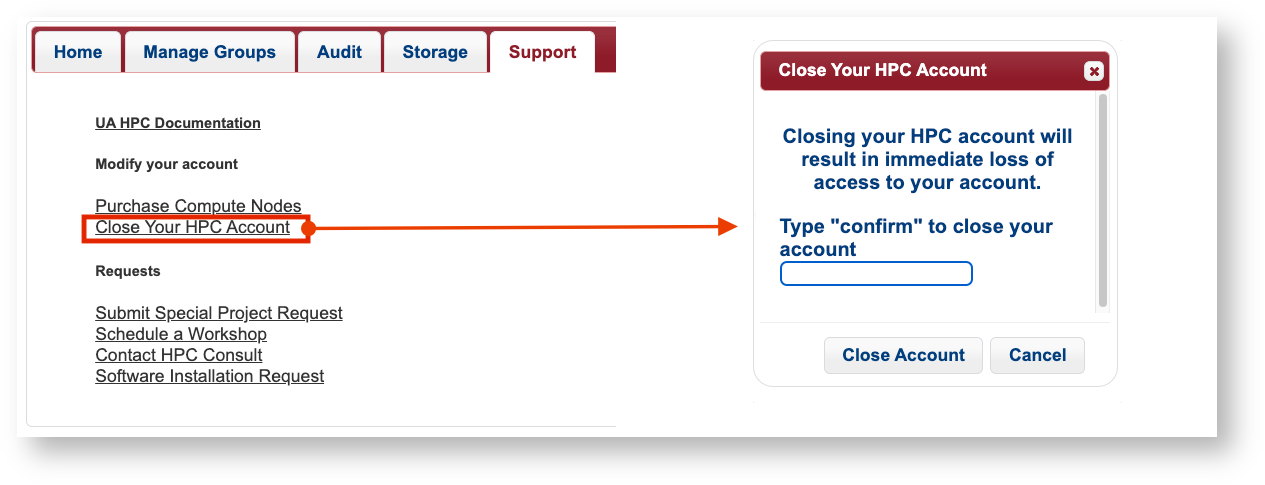
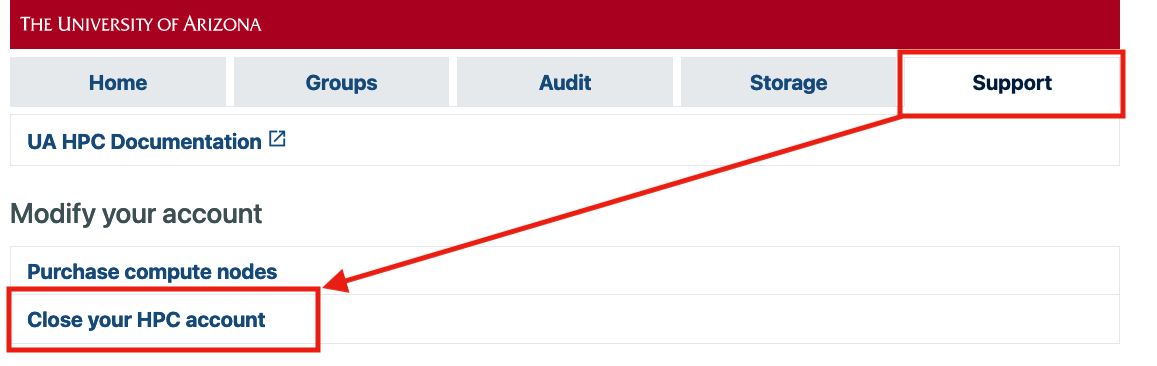
Updated screenshots to match new portal UI

diff --git a/docs/registration_and_access/group_management/index.md b/docs/registration_and_access/group_management/index.md
@@ -32,19 +32,17 @@ Research groups can also be used to manage access permissions to files and folde
 
 ### Adding Members
 
-To add members to your research group, go to [https://portal.hpc.arizona.edu/](https://portal.hpc.arizona.edu/) and click the **Manage Groups** tab at the top of the screen. Click your group's dropdown tab and click **Add Member**
+To add members to your research group, go to [https://portal.hpc.arizona.edu/](https://portal.hpc.arizona.edu/) and click the **Groups** tab at the top of the screen. 
 
 <img class="ood-screenshots" src="images/group_add.png" title="Manage group members">
 
-Enter the user's UArizona NetID in the box that appears, and select **Add**
+Click your group's dropdown tab and navigate to where it says **Add a new group member**. In the field below, enter the new group member's NetID and click ":material-account-plus: ADD MEMBER". 
 
-<img class="ood-screenshots" src="images/add_member.png" style="width: 300px;" title="Add NetID">
+<img class="ood-screenshots" src="images/add_member.png" title="Add NetID">
 
 To add members in bulk, you may also select **Upload Member List** and upload a CSV file of UArizona NetIDs.
 
-The process of adding new members may take a few seconds to complete. Once the changes have taken place, you will see the user's NetID in your group:
-
-<img class="ood-screenshots" src="images/added_user.png" title="Research group with new member">
+The process of adding new members may take a few seconds to complete. Once the changes have taken place, you will see the user's NetID in your group.
 
 
 
@@ -52,7 +50,7 @@ The process of adding new members may take a few seconds to complete. Once the c
 
 A new group can be created at any time through the user portal. New groups will share their time and storage allocations with your primary group. Alternate research groups can be a good solution for managing file permissions. For example, if a particular directory and its contents needs restricted access, you could do this by creating a new research group, adding the group members who need access to those files, and then changing the group ownership of the files/directories.
 
-To create a new group, log into the user portal, select the **Manage Groups** and select the **Add New Group** dropdown menu. 
+To create a new group, log into the user portal, navigate to the **Groups** tab and select the **Add New Group** dropdown menu. In the **Group Name** field, enter the name of the group you'd like to create. Under **Group Type**, select **researchGroup**, then select the :material-account-multiple-plus: to confirm.
 
 <img src="images/create-research-group.png" class="ood-screenshots" title="Add new research group">
 
@@ -77,23 +75,20 @@ If you are a faculty member and are teaching a course that makes use of HPC reso
 
 ### Creating a Class Group
 
-Log into your [user portal](https://portal.hpc.arizona.edu/), navigate to the **Manage Groups** tab, and select the **Add New Group** dropdown option at the top of the page.There will be an option to specify your **Group Type** on the right. Choose **Class** from the dropdown menu
+Log into your [user portal](https://portal.hpc.arizona.edu/), navigate to the **Groups** tab, and select the **Add New Group** dropdown option at the top of the page.There will be an option to specify your **Group Type**. Choose **classGroup** from the dropdown menu. Then under **Group Name** enter the name of your group. Finally, click :material-account-multiple-plus: to complete the process. 
 
-<img src="images/select-class-group.png" class="ood-screenshots" title="Select class group type">
+<img src="images/create-class-group.png" class="ood-screenshots" title="Class group interface">
 
-Under **Group Name**, enter something descriptive and then complete the process by clicking **Add Group**.
 
-<img src="images/name_group.png" class="ood-screenshots" title="Add class group">
+Once this process is complete, you can find your group's dropdown under the **Groups** tab. There you can add students either individually or in batch by uploading a CSV file with your student's NetIDs. You may also remove students from the group by clicking the "REMOVE :material-account-minus:" button. You can also delete the group itself by selecting ":material-account-multiple-minus: REMOVE GROUP".
 
-Once this process is complete, you can find your group's dropdown tab under **Manage Groups**. There you can add students either individually or in batch by uploading a CSV file with your student's NetIDs. You may also remove students from the group by clicking their NetIDs and then selecting Remove Member(s), or delete the group itself by selecting Delete Group.
-
-<img src="images/add_class_members.png" class="ood-screenshots" title="Class group interface">
+<img src="images/class-members.png" class="ood-screenshots" title="Class group interface">
 
 ### File Permissions and Storage
 Students in your class group will only be able to access files and directories owned by the class group. This means they will not be able to access files and directories owned by your standard research group. 
 
 ### Running Jobs and Allocations
-Due to Arizona sales tax restrictions, class groups may only use the windfall queue on Puma. However, standard hours may be used by students on Ocelote. To submit standard jobs on Ocelote, students will use the class group's name for the ```--account``` Slurm directive. For example:
+Due to Arizona sales tax restrictions, {==class groups may only use the windfall queue on Puma==}. However, {==standard hours may be used by students on Ocelote==}. To submit standard jobs on Ocelote, students will use the class group's name for the ```--account``` Slurm directive. For example:
 
 ```bash
 #SBATCH --account=hpc101
@@ -116,12 +111,21 @@ PI: parent_000 Total time: 100000:00:00
 ## Delegating Group Management Rights
 
 ### Adding a Delegate
-PI's can delegate management rights to trusted group members. Delegates may create research and class groups, sponsor users, remove users, and request and manage storage offerings on behalf of their faculty sponsor. To add a group member as a delegate, the PI can click the **Manage Delegates** link on the home page of the [user portal](https://portal.hpc.arizona.edu/portal/). In the Manage Delegates window that appears, select **Add Delegate**, enter your group member's NetID, and click **Add**.
+PI's can delegate management rights to trusted group members. Delegates may create research and class groups, sponsor users, remove users, and request and manage storage offerings on behalf of their faculty sponsor. To add a group member as a delegate, the PI can click the **Manage Delegates** link on the home page of the [user portal](https://portal.hpc.arizona.edu/portal/).
+
+<img src="images/manage-delegates.png" class="ood-screenshots" title="Adding a group delegate">
+
+ In the Manage Delegates window that appears, select **Add a delegate**, enter your group member's NetID, and click :material-plus-circle-outline:.
 
 <img src="images/add-delegate.png" class="ood-screenshots" title="Adding a group delegate">
 
 ### Instructions for Delegates
 
-Once a group member has been added as a delegate, they can log into the user portal, select **Switch User**, enter their PI's NetID in the pop-up field, and click **Switch User**. This will allow them to perform functions on their PI's behalf. They may switch back to their own account at any time by selecting Switch User and entering their own NetID.
+Once a group member has been added as a delegate, they can log into the user portal, then select **Switch User** from the Home tab.
 
-<img src="images/switch-user.png" class="ood-screenshots" title="Delegate instructions">
+<img src="images/switch_user0.png" class="ood-screenshots" title="Adding a group delegate">
+
+
+In the next window, they can enter their PI's NetID under **Switch user form** --> **UA NetID**, and click :material-account-box-multiple:. They should see **Current effective user** change from their own NetID to their PI's NetID. This will allow them to perform functions on their PI's behalf. They may switch back to their own account at any time by following the same process, entering their own NetID in the form instead of their PI's.
+
+<img src="images/switch-user1.png" class="ood-screenshots" title="Delegate instructions">

diff --git a/docs/registration_and_access/account_creation/index.md b/docs/registration_and_access/account_creation/index.md
@@ -23,10 +23,11 @@ The process of registering for an HPC account varies depending on your affiliati
     <img src="images/PI_Account_Creation_4.png" title="PI self-sponsor link" style="width:800px;">
     <br>
      
-     This will automatically redirect you back to the user portal, create a research group for you, and add you as a member. You will briefly see a pop-up notification verifying you've been added to your group. You can check this by going to the Manage Groups tab and clicking your group's dropdown menu to view its members. 
+     This will automatically redirect you back to the user portal, create a research group for you, and add you as a member. You can check your group and membership in the portal by going to the <b>Groups</b> tab and clicking your group's dropdown menu to view its members. 
      <br>
-     <img src="images/PI_Account_Creation_4.5.png" title="PI confirmation popup" style="width:350px;">
+     <img src="images/PI_Account_Creation_4.5.png" title="PI confirmation popup" style="width:800px;">
     </p>
+    <p>For more information on how you can manage your HPC group, see our <a href="../group_management/">Group Management</a> documentation.</p>
 </div>
      
 <button class="collapsible">I'm a student, postdoc, staff member, or Designated Campus Colleague</button>

diff --git a/docs/registration_and_access/account_deletion/index.md b/docs/registration_and_access/account_deletion/index.md
@@ -2,9 +2,15 @@
 
 ## Manual Deletion
 
-If you wish to delete your HPC account, you may do so through the [User Portal](https://portal.hpc.arizona.edu/portal/). Navigate to the **Support** tab and click the **Close Your HPC Account** link. You will be prompted to manually confirm by entering *confirm* at the prompt. Click **Close Account** to complete the process.
+If you wish to delete your HPC account, you may do so through the [User Portal](https://portal.hpc.arizona.edu/portal/). Navigate to the **Support** tab and click the **Close Your HPC Account** link. 
 
-<img src=images/CloseAccount_0.png title="HPC account deletion" style="width=800px;">
+<img src="images/CloseAccount_0.png" title="HPC account deletion" style="width:800px;">
+
+In a new window, you will be prompted to manually confirm by entering *confirm* at the prompt. Click **Close Account** to complete the process.
+
+<img src="images/CloseAccount_1.png" title="HPC account deletion" style="width:800px;">
+
+
 
 ## Loss of University Affiliation
 
